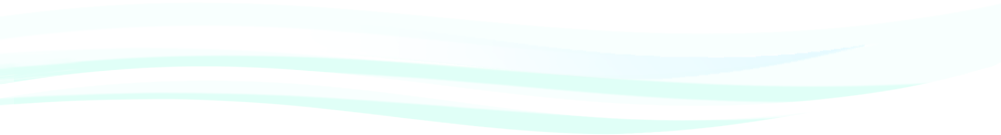
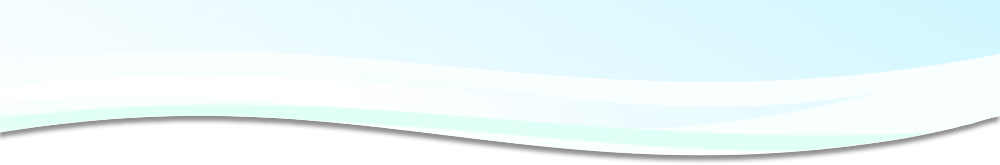
new fixed approach

diff --git a/scss/harbor/_head.scss b/scss/harbor/_head.scss
@@ -4,48 +4,84 @@
 .harbor {
     header {
         /* background: rgba(255, 25, 25, 0.3); */
-        color: darkblue;
-        margin: 0 -1.25rem;
+        /* position: fixed; */
+        color: $blu;
+        margin: 0 -1.2rem;
         max-width: 70rem;
         min-width: 57rem;
+        padding: 0 0.8rem;
         position: absolute;
-        /* position: fixed; */
         text-align: left;
-        top: 2.5rem;
+        top: 3.5rem;
         z-index: 11;
 
-        .msie & { margin-bottom: 3rem; margin-left: 0rem; margin-top: 2rem; }
         h1 {
             left: -9999px;
             position: absolute;
         }
+        p {
+            height: 99px;
+            margin: 0 1.25rem;
+        }
+        nav.sub-top {
+            @include transition( top 0.1s linear );
+
+            position: absolute;
+            right: 4rem;
+            top: -2.75rem;
+        }
         .logo {
             display: inline-block;
-            margin-left: 2rem;
-            margin-top: 0.5rem;
+            margin-left: 1rem;
+            margin-top: 0rem;
             position: absolute;
+            top: 0;
             z-index: 1;
         }
+        .flow {
+            border-radius: 1rem;
+            position: relative;
+            width: 100%;
+            z-index: -1;
+        }
+        .msie & { margin-bottom: 3rem; margin-left: 0rem; margin-top: 2rem; }
     }
     &.fixed {
         header {
-            @include transition( top 0.25s linear );
-            background: url(../images/logos/logo-head.png) no-repeat;
             margin-top: -99px;
             position: fixed;
-            top: 99px;
-            .msie & { margin-top: 0; top: 0; }
+            top: 90px;
+        }
+        nav.sub-top {
+            position: fixed;
+            padding-right: 3rem;
+            top: 1rem;
+            z-index: 12;
 
-            .logo img {
-                visibility: hidden;
+            a {
+                color: $blu !important;
+                font-weight: 600;
+                text-shadow: none !important;
+
+                &:hover {
+                    color: $red !important;
+                }
             }
+        }
+        #___gcse_0 {
+            display: none;
+        }
+        #Programs {
+            top: 2rem;
         }
     }
     #Programs {
-        float: right;
-        margin: 3rem 3rem 1rem;
+        @include transition( top 0.2s linear );
+        margin: 1rem 6rem 1rem;
+        position: absolute;
+        right: 0;
+        top: 1rem;
 
-        .msie & { margin-bottom: 3rem; }
         a {
             color: $red;
             line-height: 2;
@@ -64,9 +100,10 @@
     }
 
     #___gcse_0 {
+        @include transition( top 0.1s linear );
         position: absolute;
-        right: 2rem;
-        top: 1rem;
+        right: 4rem;
+        top: 0;
         width: 33%;
 
         .gsc-search-button, .gsc-above-wrapper-area, .gsc-cursor-box, .gsst_b {
@@ -85,7 +122,7 @@
             left: 12.5%;
         }
         .gsc-input-box {
-            border: 1px solid #eee;
+            border: 1px solid #ccc;
             border-radius: 1rem;
             color: gray;
         }

diff --git a/pages/index.html b/pages/index.html
@@ -25,15 +25,15 @@
         <div id="Flood" class=""></div>
 
         <div class="harbor shadow" id="Body">
-            <nav class="sub-top">
-                <a href="home.html">Home</a>
-                <a href="about.html">About Us </a>
-                <a href="glossary.html">Glossary</a>
-                <a href="guide.html">Submission Guidelines</a>
-                <a href="contact.html">Contact Us</a>
-            </nav>
 
             <header>
+                <nav class="sub-top">
+                    <a href="home.html">Home</a>
+                    <a href="about.html">About Us </a>
+                    <a href="glossary.html">Glossary</a>
+                    <a href="guide.html">Submission Guidelines</a>
+                    <a href="contact.html">Contact Us</a>
+                </nav>
                 <h1>Harbor Risk</h1>
                 <a class="logo" href="home.html"><img alt="logo" src="../images/logos/logo.png"></a>
 
@@ -43,7 +43,8 @@
                         <a class="com" href="commercial.html">Commercial Marine</a>
                     </h4>
                 </nav>
-                <p style="height: 1px;">
+                <p>
+                    <img class="flow" alt="flow" src="../images/shapes/flow.png">
                     &nbsp; &nbsp; &nbsp; &nbsp; &nbsp; &nbsp; &nbsp; &nbsp; &nbsp; &nbsp; &nbsp; &nbsp; &nbsp; &nbsp; &nbsp; &nbsp; &nbsp; &nbsp; &nbsp; &nbsp; &nbsp; &nbsp; &nbsp; &nbsp; &nbsp; &nbsp; &nbsp; &nbsp; &nbsp; &nbsp;
                     &nbsp; &nbsp; &nbsp; &nbsp; &nbsp; &nbsp; &nbsp; &nbsp; &nbsp; &nbsp; &nbsp; &nbsp; &nbsp; &nbsp; &nbsp; &nbsp; &nbsp; &nbsp; &nbsp; &nbsp; &nbsp; &nbsp; &nbsp; &nbsp; &nbsp; &nbsp; &nbsp; &nbsp; &nbsp; &nbsp;
                     &nbsp; &nbsp; &nbsp; &nbsp; &nbsp; &nbsp; &nbsp; &nbsp; &nbsp; &nbsp; &nbsp; &nbsp; &nbsp; &nbsp; &nbsp; &nbsp; &nbsp; &nbsp; &nbsp; &nbsp; &nbsp; &nbsp; &nbsp; &nbsp; &nbsp; &nbsp; &nbsp; &nbsp; &nbsp; &nbsp;
@@ -60,7 +61,7 @@
                 <div id="Main">
 
                     <section class="slideshow">
-                        <img class="flow" alt="flow" src="../images/shapes/flow.png">
+                        <img class="flow" alt="flow" src="../images/shapes/flowbee.png">
 
                         <!-- <h2>Image title here</h2> -->
                         <div class="iS-port">

diff --git a/scss/harbor/_wrap.scss b/scss/harbor/_wrap.scss
@@ -16,10 +16,10 @@
     margin: 1rem auto;
     max-width: 70rem;
     min-width: 57rem;
-    padding: 0.75rem 1.25rem;
+    padding: 2.5rem 1.25rem 0.75rem;
     width: 98%;
 
-    > nav {
+    nav.sub-top, nav.sub-bot {
         color: white;
         text-align: right;
 
@@ -42,7 +42,6 @@
             }
         }
         &.sub-top {
-            padding-bottom: 0.5rem;
             text-transform: uppercase;
         }
         &.sub-bot {

diff --git a/scripts/_main.js b/scripts/_main.js
@@ -35,7 +35,7 @@ var Main = (function ($, G, U) { // IIFE
                 Floater.jump('#Body');
             } else {
                 body.addClass('page ' + doc);
-                Floater.jump('#Main');
+                Floater.jump('#Body');
             }
             body.find('.content').slideDown(); // reveal again
             Anchor.write(doc);

diff --git a/scss/harbor/_show.scss b/scss/harbor/_show.scss
@@ -26,9 +26,8 @@ $gap: 5px;
     }
     .flow {
         position: absolute;
-        max-height: 111px;
-        top: -2.5rem;
-        width: 100%;
+        top: 2rem;
+        width: 80%;
         z-index: 9;
     }
     .surf {

diff --git a/scripts/tests.js b/scripts/tests.js
@@ -62,6 +62,7 @@ var Tests = (function ($, G, U) { // IIFE
 
         s = W.document.getElementsByTagName('script')[0];
         s.parentNode.insertBefore(gcse, s);
+
     }
 
     function bindings() {
